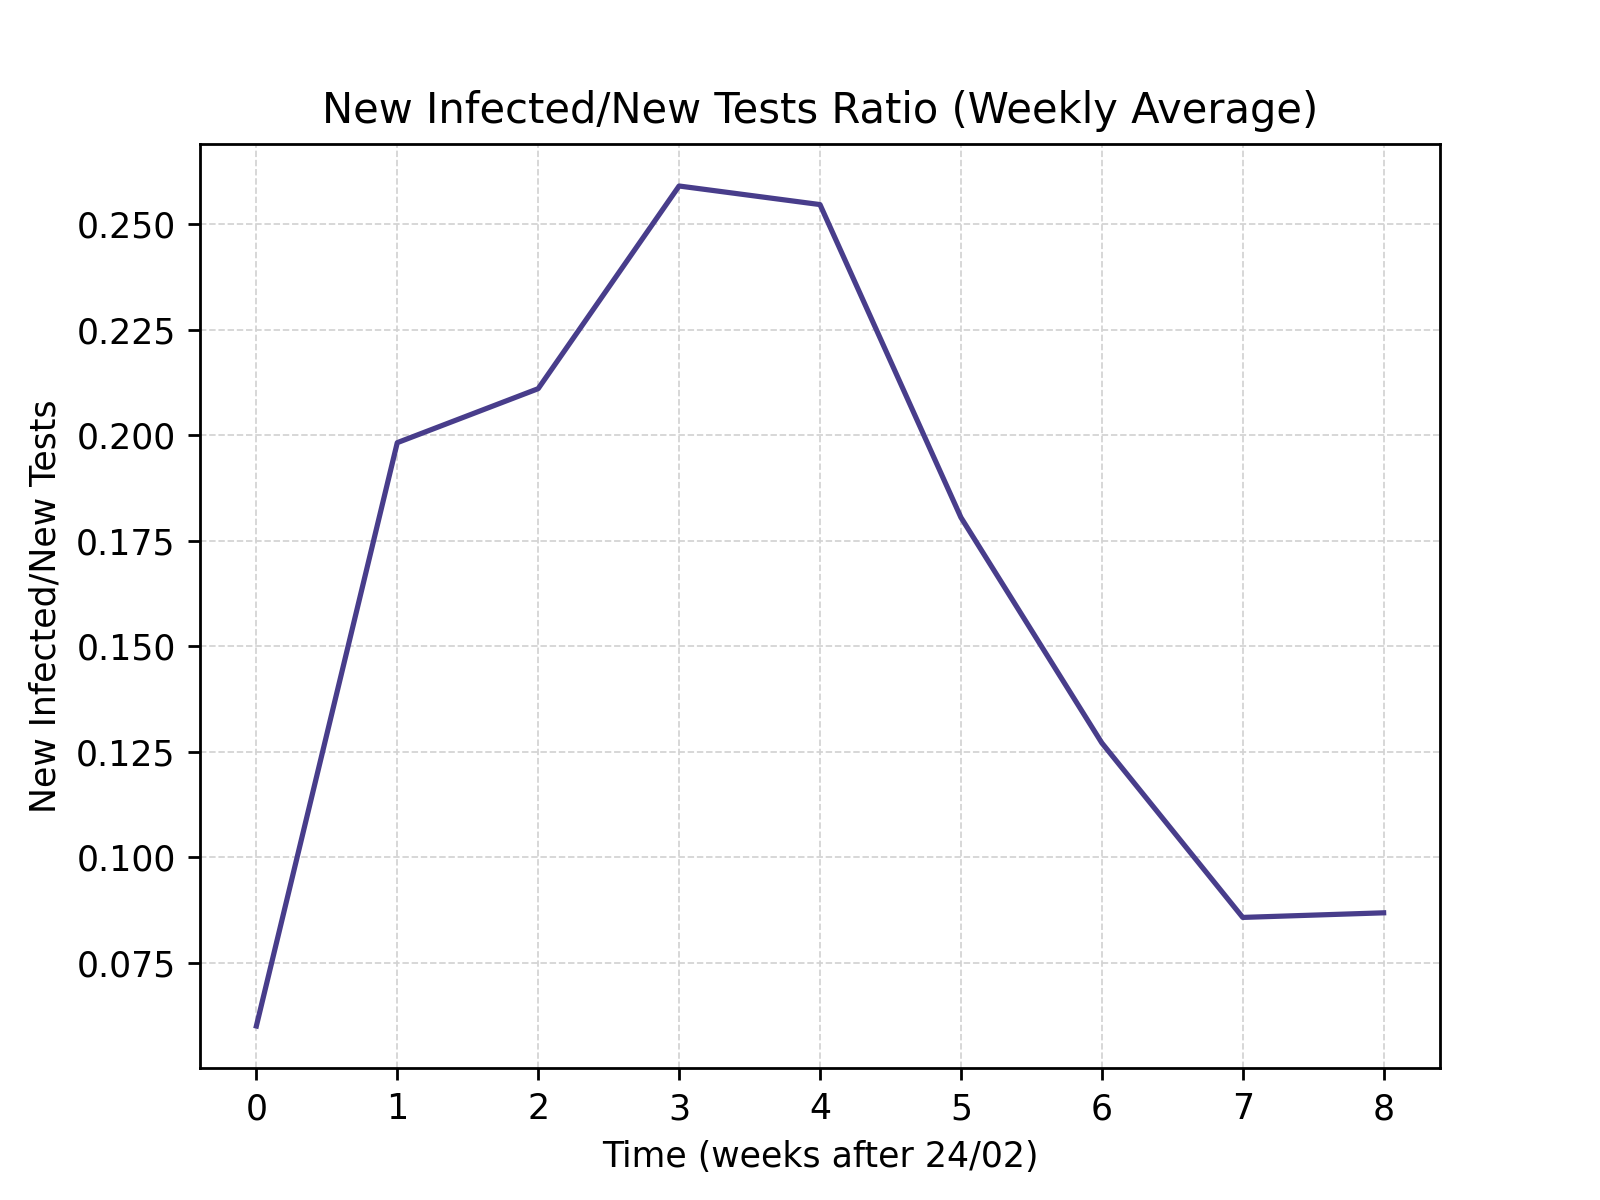
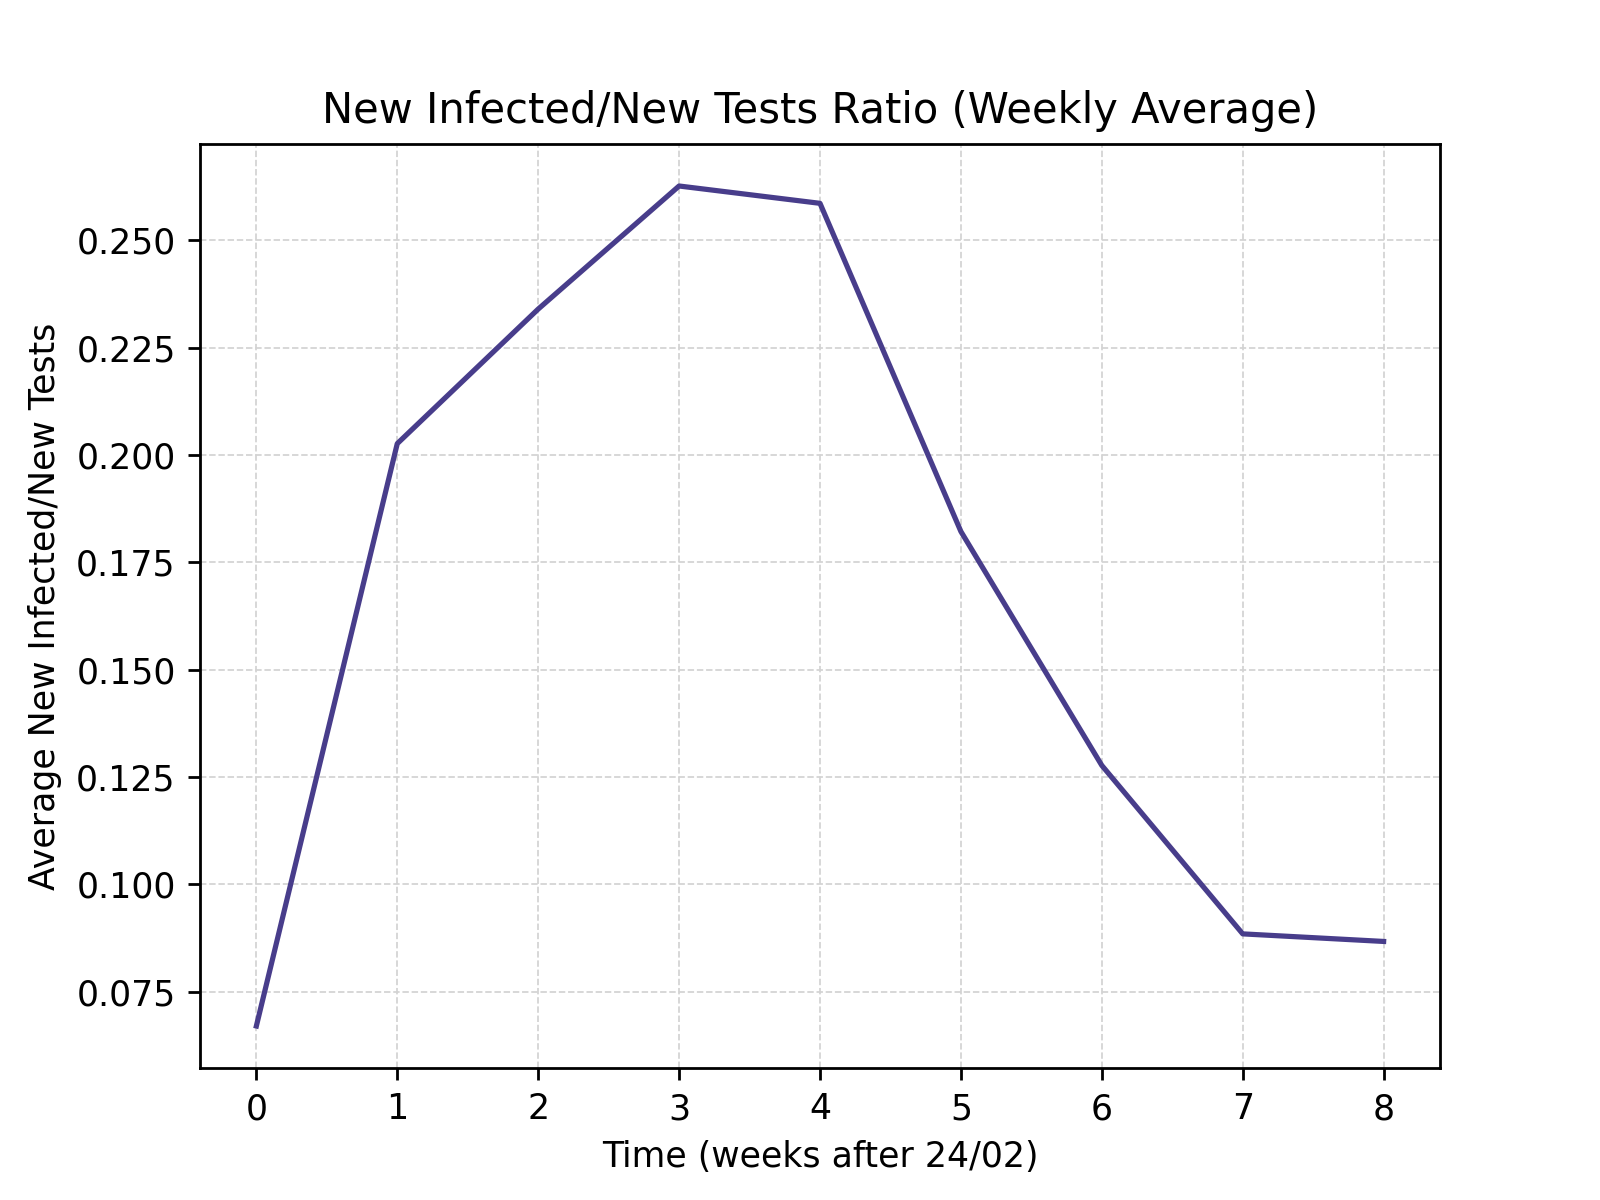
minor corrections

diff --git a/national.py b/national.py
@@ -233,11 +233,13 @@ plt.grid(color='lightgray', linestyle='--', linewidth=0.5)
 plt.savefig('./curves/curves-with-tamponi.png', dpi = 250)
 plt.clf()
 
+dataset.insert(loc=12, column='rapporto_nuovi_positivi_tamponi', value=(dataset['nuovi_positivi']/dataset['nuovi_tamponi']))
+
 #new infected/new tests ratio daily
 plt.xlabel('Time (days after 24/02)')
 plt.ylabel('New Infected/New Tests')
 plt.title('New Infected/New Tests Ratio')
-plt.plot(days, dataset['nuovi_positivi']/new_tamponi, c='darkslateblue', linestyle='-')
+plt.plot(days, dataset['rapporto_nuovi_positivi_tamponi'], c='darkslateblue', linestyle='-')
 plt.grid(color='lightgray', linestyle='--', linewidth=0.5)
 plt.savefig('./curves/curves-with-tamponi-over-new.png', dpi = 250)
 plt.clf()
@@ -452,9 +454,9 @@ plt.clf()
 
 # weekly average new infected/new tests ratio
 plt.xlabel('Time (weeks after 24/02)')
-plt.ylabel('New Infected/New Tests')
+plt.ylabel('Average New Infected/New Tests')
 plt.title('New Infected/New Tests Ratio (Weekly Average)')
-plt.plot(weeks, ave_dataset['nuovi_positivi']/ave_dataset['nuovi_tamponi'], c='darkslateblue', linestyle='-')
+plt.plot(weeks, ave_dataset['rapporto_nuovi_positivi_tamponi'], c='darkslateblue', linestyle='-')
 plt.grid(color='lightgray', linestyle='--', linewidth=0.5)
 plt.savefig('./curves/average-curves-with-tamponi-over-new.png', dpi = 250)
 plt.clf()
